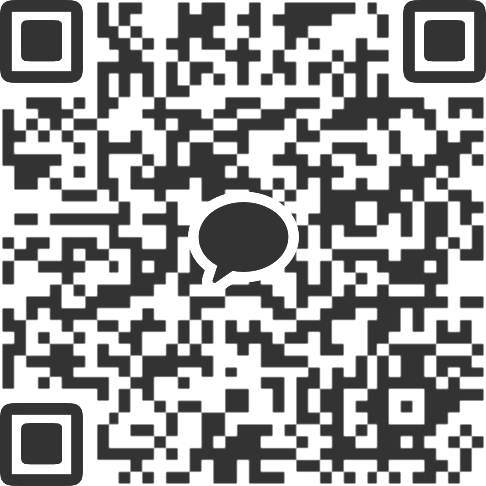
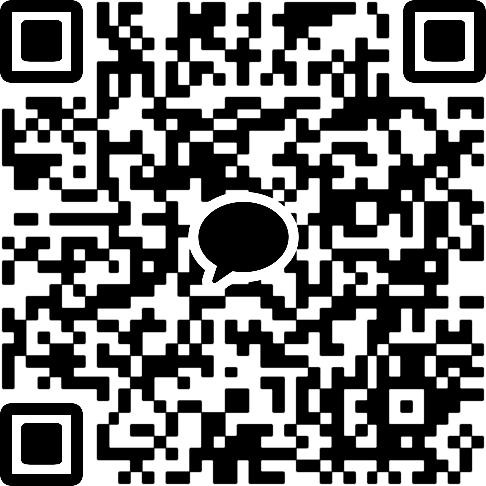
Update

diff --git a/index.html b/index.html
@@ -178,22 +178,22 @@
                     </div>
                     <div class="link-box" onclick="kakaotalk()">
                         <div class="link-icon"><img src="/image/icon/kakaotalk.svg" onerror='this.src=`/image/error-icon.svg`' loading='lazy'></div>
-                        <div class="link-name"><a class="link-newtab" target="_blank">KakaoTalk</a><img class="qr-code" qr-name="KakaoTalk" qr-img="/image/qr/kakaotalk.png" src="/image/icon/qr.svg" onerror='this.src=`/image/error-icon.svg`' loading='lazy'></div>
+                        <div class="link-name"><a class="link-newtab" target="_blank">KakaoTalk</a><img class="qr-code" qr-name="KakaoTalk" qr-img="/image/qr/kakaotalk.png" src="/image/icon/qr.svg" onerror='this.src=`/image/error-icon.svg`'></div>
                         <div class="link-id">hb030624</div>
                     </div>
                     <div class="link-box" onclick="line()">
                         <div class="link-icon"><img src="/image/icon/line.svg" onerror='this.src=`/image/error-icon.svg`' loading='lazy'></div>
-                        <div class="link-name"><a class="link-newtab" target="_blank">LINE</a><img class="qr-code" qr-name="LINE" qr-img="/image/qr/line.png" src="/image/icon/qr.svg" onerror='this.src=`/image/error-icon.svg`' loading='lazy'></div>
+                        <div class="link-name"><a class="link-newtab" target="_blank">LINE</a><img class="qr-code" qr-name="LINE" qr-img="/image/qr/line.png" src="/image/icon/qr.svg" onerror='this.src=`/image/error-icon.svg`'></div>
                         <div class="link-id">hb030624</div>
                     </div>
                     <div class="link-box" onclick="wechat()">
                         <div class="link-icon"><img src="/image/icon/wechat.svg" onerror='this.src=`/image/error-icon.svg`' loading='lazy'></div>
-                        <div class="link-name"><a class="link-newtab" target="_blank">WeChat</a><img class="qr-code" qr-name="WeChat" qr-img="/image/qr/wechat.png" src="/image/icon/qr.svg" onerror='this.src=`/image/error-icon.svg`' loading='lazy'></div>
+                        <div class="link-name"><a class="link-newtab" target="_blank">WeChat</a><img class="qr-code" qr-name="WeChat" qr-img="/image/qr/wechat.png" src="/image/icon/qr.svg" onerror='this.src=`/image/error-icon.svg`'></div>
                         <div class="link-id">hungbok</div>
                     </div>
                     <div class="link-box" onclick="telegram()">
                         <div class="link-icon"><img src="/image/icon/telegram.svg" onerror='this.src=`/image/error-icon.svg`' loading='lazy'></div>
-                        <div class="link-name"><a class="link-newtab" href="https://t.me/heungbok_lee" target="_blank">Telegram<img src="/image/icon/open.svg" onerror='this.src=`/image/error-icon.svg`' loading='lazy'></a></div>
+                        <div class="link-name"><a class="link-newtab" href="https://t.me/heungbok_lee" target="_blank">Telegram<img src="/image/icon/open.svg" onerror='this.src=`/image/error-icon.svg`' loading='lazy'></a><img class="qr-code" qr-name="Telegram" qr-img="/image/qr/telegram.png" src="/image/icon/qr.svg" onerror='this.src=`/image/error-icon.svg`'></div>
                         <div class="link-id">@heungbok_lee</div>
                     </div>
                     <div class="link-box" onclick="facebook()">
@@ -203,7 +203,7 @@
                     </div>
                     <div class="link-box" onclick="instagram()">
                         <div class="link-icon"><img src="/image/icon/instagram.svg" onerror='this.src=`/image/error-icon.svg`' loading='lazy'></div>
-                        <div class="link-name"><a class="link-newtab" href="https://www.instagram.com/heungbok_lee" target="_blank">Instagram<img src="/image/icon/open.svg" onerror='this.src=`/image/error-icon.svg`' loading='lazy'></a></div>
+                        <div class="link-name"><a class="link-newtab" href="https://www.instagram.com/heungbok_lee" target="_blank">Instagram<img src="/image/icon/open.svg" onerror='this.src=`/image/error-icon.svg`' loading='lazy'></a><img class="qr-code" qr-name="Instagram" qr-img="/image/qr/instagram.png" src="/image/icon/qr.svg" onerror='this.src=`/image/error-icon.svg`'></div>
                         <div class="link-id">@heungbok_lee</div>
                     </div>
                     <div class="link-box" onclick="twitter()">
@@ -243,7 +243,7 @@
                     </div>
                     <div class="link-box" onclick="qq()">
                         <div class="link-icon"><img src="/image/icon/qq.svg" onerror='this.src=`/image/error-icon.svg`' loading='lazy'></div>
-                        <div class="link-name"><a class="link-newtab" href="https://qm.qq.com/cgi-bin/qm/qr?k=hmELNaYVOsZ597Bec59dHpifqPA_sBsE" target="_blank">QQ<img src="/image/icon/open.svg" onerror='this.src=`/image/error-icon.svg`' loading='lazy'></a><img class="qr-code" qr-name="QQ" qr-img="/image/qr/qq.png" src="/image/icon/qr.svg" onerror='this.src=`/image/error-icon.svg`' loading='lazy'></div>
+                        <div class="link-name"><a class="link-newtab" href="https://qm.qq.com/cgi-bin/qm/qr?k=hmELNaYVOsZ597Bec59dHpifqPA_sBsE" target="_blank">QQ<img src="/image/icon/open.svg" onerror='this.src=`/image/error-icon.svg`' loading='lazy'></a><img class="qr-code" qr-name="QQ" qr-img="/image/qr/qq.png" src="/image/icon/qr.svg" onerror='this.src=`/image/error-icon.svg`'></div>
                         <div class="link-id">2790245060</div>
                     </div>
                     <div class="link-box" onclick="youtube()">
@@ -293,7 +293,7 @@
                     </div>
                     <div class="link-box" onclick="spotify()">
                         <div class="link-icon"><img src="/image/icon/spotify.svg" onerror='this.src=`/image/error-icon.svg`' loading='lazy'></div>
-                        <div class="link-name"><a class="link-newtab" href="https://open.spotify.com/user/8sqkqyr3ldrioe3sp0pewe784" target="_blank">Spotify<img src="/image/icon/open.svg" onerror='this.src=`/image/error-icon.svg`' loading='lazy'></a></div>
+                        <div class="link-name"><a class="link-newtab" href="https://open.spotify.com/user/8sqkqyr3ldrioe3sp0pewe784" target="_blank">Spotify<img src="/image/icon/open.svg" onerror='this.src=`/image/error-icon.svg`' loading='lazy'></a><img class="qr-code" qr-name="Spotify" qr-img="/image/qr/spotify.png" src="/image/icon/qr.svg" onerror='this.src=`/image/error-icon.svg`'></div>
                         <div class="link-id">HungBok</div>
                     </div>
                     <div class="link-box" onclick="soundcloud()">
@@ -510,7 +510,7 @@
                 <div class="links-box">
                     <div class="link-box" onclick="paypal()">
                         <div class="link-icon"><img src="/image/icon/paypal.svg" onerror='this.src=`/image/error-icon.svg`' loading='lazy'></div>
-                        <div class="link-name"><a class="link-newtab" href="https://paypal.me/heungboklee" target="_blank">PayPal<img src="/image/icon/open.svg" onerror='this.src=`/image/error-icon.svg`' loading='lazy'></a><img class="qr-code" qr-name="PayPal" qr-img="/image/qr/paypal.png" src="/image/icon/qr.svg" onerror='this.src=`/image/error-icon.svg`' loading='lazy'></div>
+                        <div class="link-name"><a class="link-newtab" href="https://paypal.me/heungboklee" target="_blank">PayPal<img src="/image/icon/open.svg" onerror='this.src=`/image/error-icon.svg`' loading='lazy'></a><img class="qr-code" qr-name="PayPal" qr-img="/image/qr/paypal.png" src="/image/icon/qr.svg" onerror='this.src=`/image/error-icon.svg`'></div>
                         <div class="link-id">@heungboklee</div>
                     </div>
                     <div class="link-box" onclick="patreon()">
@@ -530,7 +530,7 @@
                     </div>
                     <div class="link-box" onclick="toss()">
                         <div class="link-icon"><img src="/image/icon/toss.png" onerror='this.src=`/image/error-icon.svg`' loading='lazy'></div>
-                        <div class="link-name"><a class="link-newtab" href="https://toss.me/hungbok" target="_blank">toss<img src="/image/icon/open.svg" onerror='this.src=`/image/error-icon.svg`' loading='lazy'></a><img class="qr-code" qr-name="toss" qr-img="/image/qr/toss.png" src="/image/icon/qr.svg" onerror='this.src=`/image/error-icon.svg`' loading='lazy'></div>
+                        <div class="link-name"><a class="link-newtab" href="https://toss.me/hungbok" target="_blank">toss<img src="/image/icon/open.svg" onerror='this.src=`/image/error-icon.svg`' loading='lazy'></a><img class="qr-code" qr-name="toss" qr-img="/image/qr/toss.png" src="/image/icon/qr.svg" onerror='this.src=`/image/error-icon.svg`'></div>
                         <div class="link-id">hungbok</div>
                     </div>
                     <div class="link-box" onclick="twip()">
@@ -545,12 +545,12 @@
                     </div>
                     <div class="link-box" onclick="bitcoin()">
                         <div class="link-icon"><img src="/image/icon/bitcoin.svg" onerror='this.src=`/image/error-icon.svg`' loading='lazy'></div>
-                        <div class="link-name"><a class="link-newtab" target="_blank">Bitcoin</a><img class="qr-code" qr-name="Bitcoin" qr-img="/image/qr/bitcoin.png" src="/image/icon/qr.svg" onerror='this.src=`/image/error-icon.svg`' loading='lazy'></div>
+                        <div class="link-name"><a class="link-newtab" target="_blank">Bitcoin</a><img class="qr-code" qr-name="Bitcoin" qr-img="/image/qr/bitcoin.png" src="/image/icon/qr.svg" onerror='this.src=`/image/error-icon.svg`'></div>
                         <div class="link-id">bc1q3h3ckv7m4np2znn26n0wjc5acjqj8cycgzvgn3</div>
                     </div>
                     <div class="link-box" onclick="kakaopay()">
                         <div class="link-icon"><img src="/image/icon/kakaopay.png" onerror='this.src=`/image/error-icon.svg`' loading='lazy'></div>
-                        <div class="link-name"><a class="link-newtab" href="https://qr.kakaopay.com/Ej9ROqYT6" target="_blank">Kakao Pay<img src="/image/icon/open.svg" onerror='this.src=`/image/error-icon.svg`' loading='lazy'></a><img class="qr-code" qr-name="Kakao Pay" qr-img="/image/qr/kakaopay.png" src="/image/icon/qr.svg" onerror='this.src=`/image/error-icon.svg`' loading='lazy'></div>
+                        <div class="link-name"><a class="link-newtab" href="https://qr.kakaopay.com/Ej9ROqYT6" target="_blank">Kakao Pay<img src="/image/icon/open.svg" onerror='this.src=`/image/error-icon.svg`' loading='lazy'></a><img class="qr-code" qr-name="Kakao Pay" qr-img="/image/qr/kakaopay.png" src="/image/icon/qr.svg" onerror='this.src=`/image/error-icon.svg`'></div>
                         <div class="link-id">흥복</div>
                     </div>
                     <div class="link-box empty">
@@ -1995,6 +1995,15 @@
 
         function bitcoin() {
           navigator.clipboard.writeText('bc1q3h3ckv7m4np2znn26n0wjc5acjqj8cycgzvgn3');
+          let newtime = new Date().getTime();
+          $('.profile-section').append('<div class="copied ' + newtime + '"><img src="/image/icon/done.svg"></div>');
+          setTimeout(function(){
+            $('.copied.' + newtime).remove();
+          }, 3000);
+        }
+
+        function kakaopay() {
+          navigator.clipboard.writeText('흥복');
           let newtime = new Date().getTime();
           $('.profile-section').append('<div class="copied ' + newtime + '"><img src="/image/icon/done.svg"></div>');
           setTimeout(function(){
